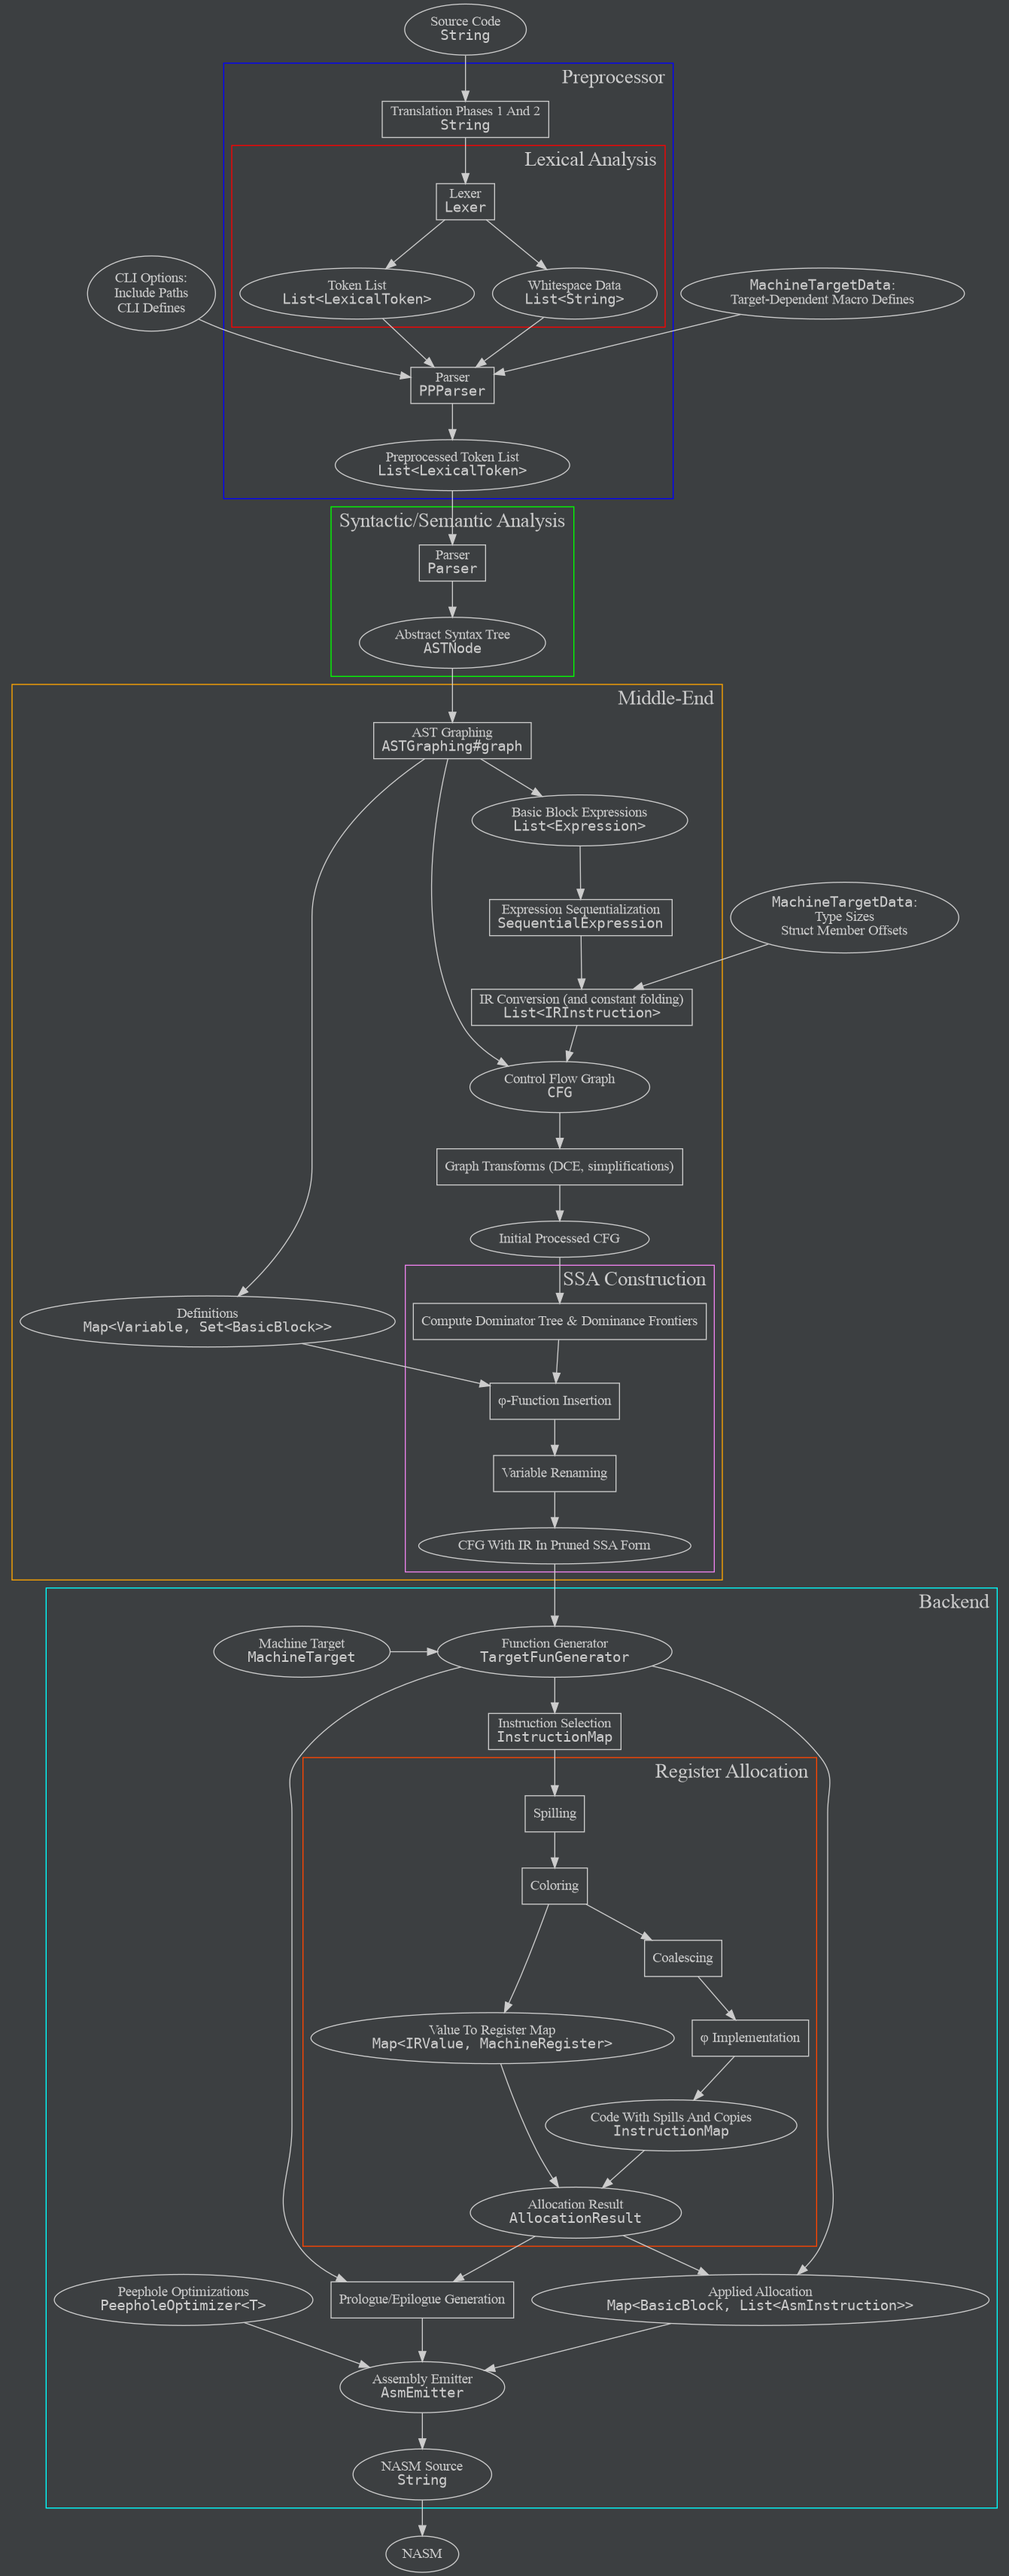
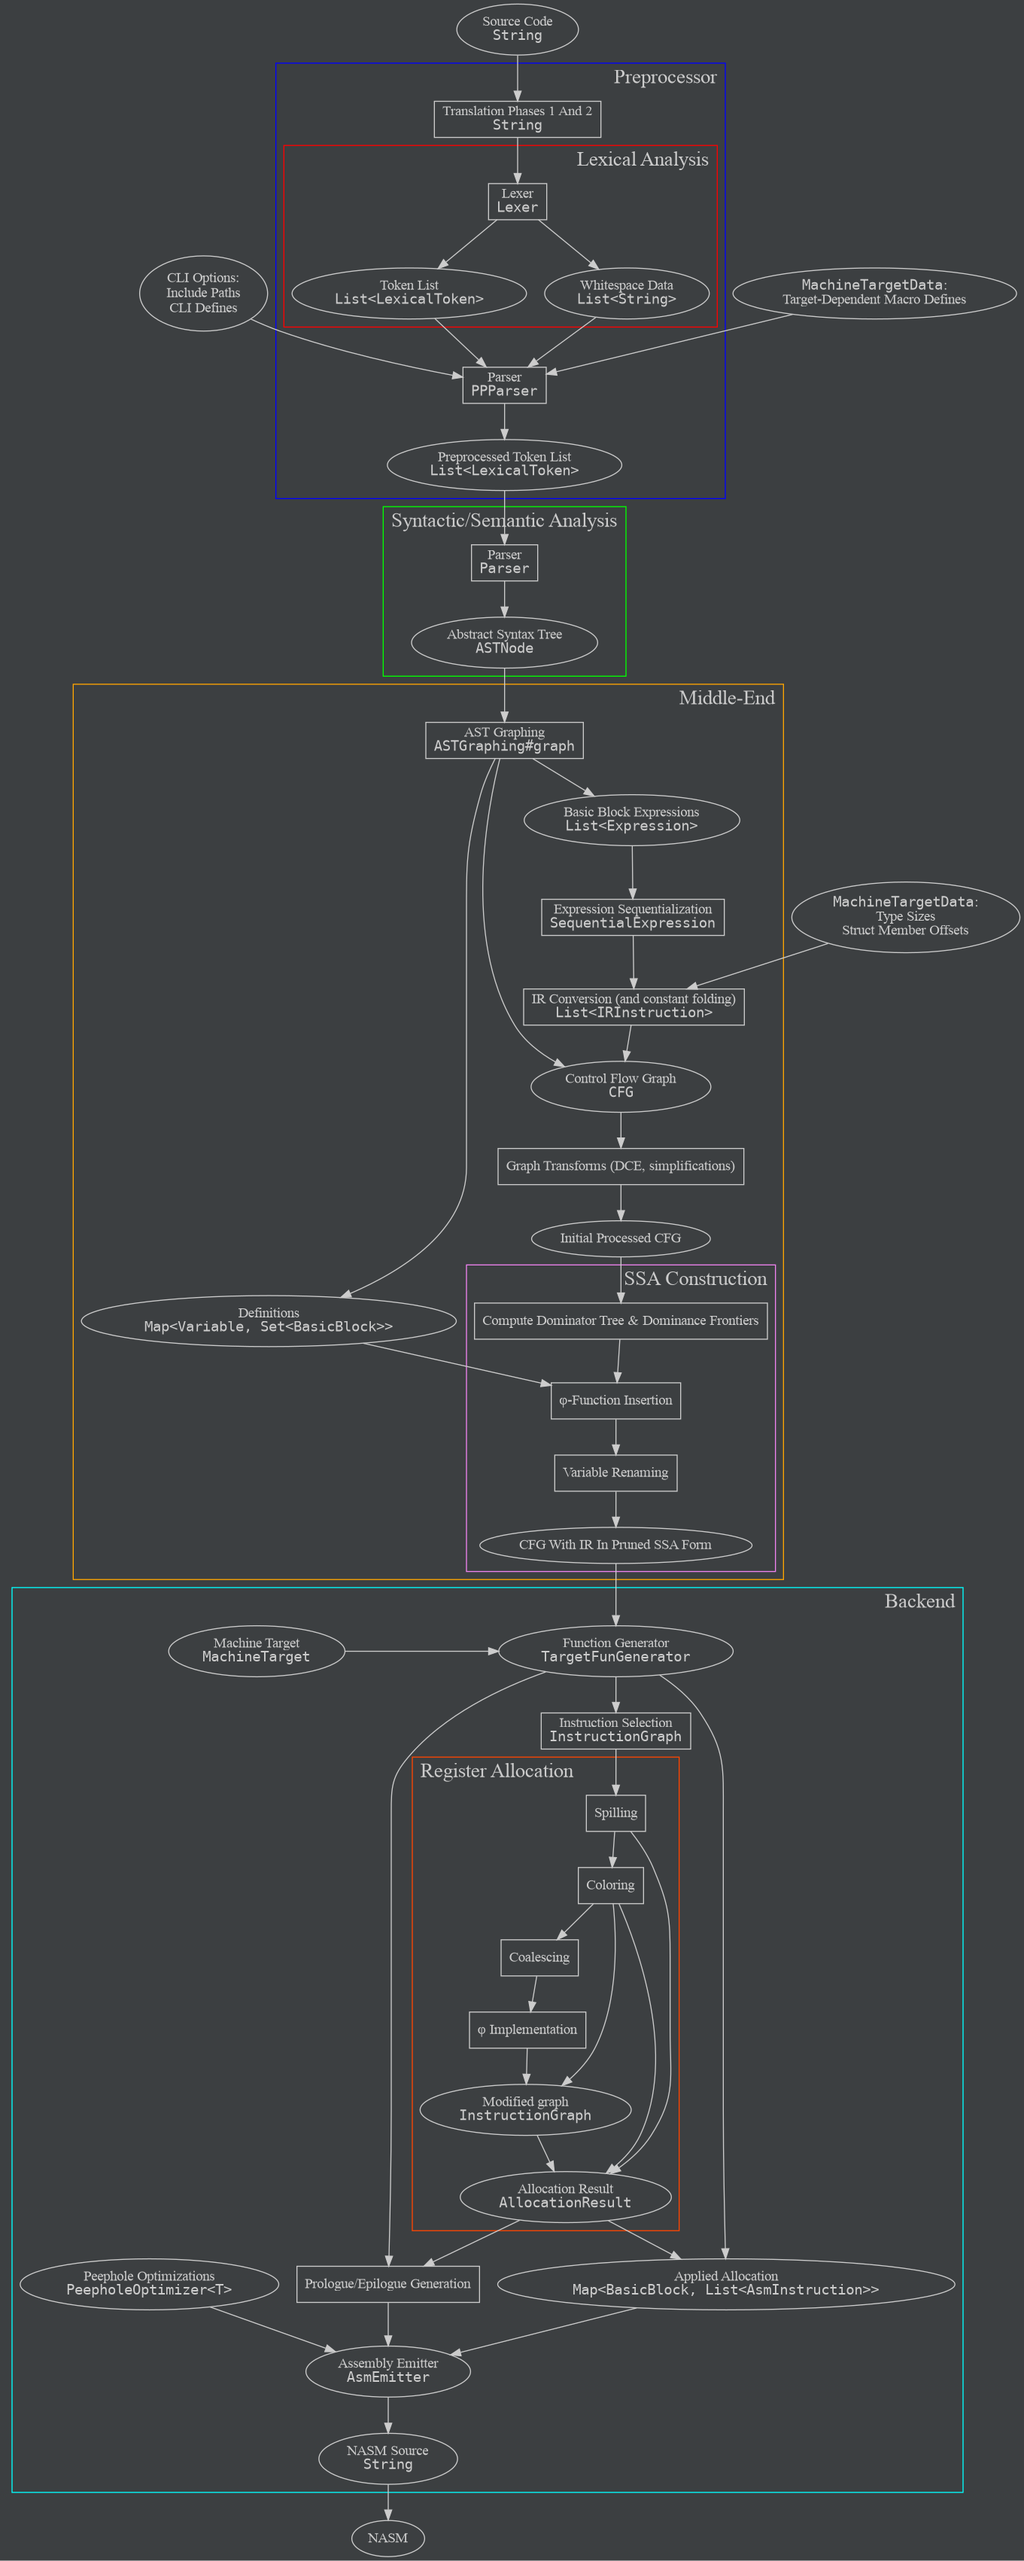
Update README

diff --git a/README.md b/README.md
@@ -10,7 +10,7 @@ Run `./gradlew distZip` for the compiler's CLI (will be created in
 
 JUnit tests can be found in the `slak.test` package, in `src/test/kotlin`.
 
-Also see what was chosen for some
+Also, see what was chosen for some
 [implementation defined/undefined behaviours][impl_defs].
 
 ## The CLI
@@ -85,7 +85,7 @@ This approach has several advantages:
    manual delegation helps prevent accidental coupling.
 4. The delegate syntax is clean: there is usually no need to write
    `component.doThing()`, rather `doThing()` can be called directly. This is
-   most obvious for parser components using `ITokenHandler`, since they have
+   most obvious in parser components using `ITokenHandler`, since they have
    lots (hundreds) of calls to functions like `current`, `eat`, `isEaten` or
    `tokenContext`. Without delegation, they'd end up polluting the source with
    `tokenHandler.current()` everywhere, which is not great for readability.
@@ -96,7 +96,7 @@ A compiler has to deal with two classes of "errors"; those that come from the
 code being compiled ("diagnostics"), and those that signal issues in the
 compiler itself.
 
-All of the relevant code can be found in the [Diagnostics.kt][diags] file.
+All the relevant code can be found in the [Diagnostics.kt][diags] file.
 
 ###### Diagnostics
 
@@ -112,7 +112,7 @@ int main() {int x; (x + 2) = 5;}
 </pre>
 
 We generate `Diagnostic` instances using a simple DSL, but the error messages,
-the source extracts and the caret/tilde markers are created lazily, internally.
+the source extracts, and the caret/tilde markers are created lazily, internally.
 They are only computed when (or if) the diagnostic gets printed. This is useful,
 because it makes creating a `Diagnostic` instance relatively cheap. As a result,
 we can create diagnostics even if they might be discarded later, with little
@@ -251,7 +251,7 @@ This interface is used both in the parser, and in the preprocessor.
 
 ### Nested Declarator Parsing
 
-Parsing declarators gets very complicated very fast when nested declarators come
+Parsing declarators gets very complicated, very fast when nested declarators come
 into play. A typical declaration with nested declarators looks like:
 ```
 int * (*f(int x))(double y)
@@ -327,8 +327,8 @@ Control flow is resolved by converting the AST to a graph (see
 [ASTGraphing.kt][ast_graphing]), where each node (a so-called [BasicBlock][bb])
 represents a _linear_ piece of code, with no jumps, conditional or otherwise.
 Basically, all `ASTNode` subclasses are removed by the conversion to a graph,
-except for `Expression` subclasses (with certain exceptions that are also
-removed, namely `TernaryConditional`).
+except for `Expression` subclasses (with certain exceptions:
+`TernaryConditional`, in particular, is also removed).
 
 Those linear pieces of code are represented as a `List<Expression>`, and are
 transformed to the simple IR (`List<IRInstruction>`) while creating the graph
@@ -429,7 +429,7 @@ Once this work is completed, the code is now in SSA form.
 
 If the `ControlFlowVariableRenames` marker in [log4j2.xml][log4j2_xml] is
 enabled (it is denied logging by default), the variable renamer will print a
-table outlining some of the steps done during renaming for the variable `x`:
+table outlining the steps done during renaming for the variable `x`:
 ```text
 [TRACE] in ControlFlow: BB| x mention   | x.reachingDef
 [TRACE] in ControlFlow: -------------------------------
@@ -465,14 +465,34 @@ table outlining some of the steps done during renaming for the variable `x`:
 Certain things depend on the target ISA and/or the machine (the size of an
 `int`, for example). `MachineTargetData` instances contain all this information.
 
-`MachineTargetData` also generates various macros used in stdlib headers (such
-as `__PTRDIFF_T_TYPE` for `stddef.h`).
+`MachineTargetData` is also responsible for generating various macros used in
+stdlib headers (such as `__PTRDIFF_T_TYPE` for `stddef.h`).
 
 This class is technically part of the backend, but certain features handled in
 the front-end (eg `sizeof`) also depend on this target-specific data.
 
 For now, only x64 Linux is supported, but the infrastructure for x86 and other
 platforms exists.
+
+###### The `MachineInstruction` class
+
+This class represents an instruction along with its operands (`IRValue`s), so
+it is still target-independent. All the target-dependent aspects of the
+instruction are contained within the `InstructionTemplate` stored by the MI (see
+below for more).
+
+###### The Instruction Graph
+
+A [CFG][cfg] is sufficient to represent the control flow, but in order to more
+cleanly separate responsibilities, and to avoid turning the CFG class into a god
+object, a new graph representation is introduced, [InstructionGraph][igraph].
+
+This class is the CFG's analogue in the backend (and is actually created by
+copying the structure of the existing CFG). Similarly, `InstrBlock` is the
+analogue for `BasicBlock`.
+
+`InstrBlock` implements the `MutableList<MachineInstruction>` interface, for
+easily interacting with the instructions in a block.
 
 ###### The Code Generation Interfaces
 
@@ -482,13 +502,14 @@ manner. The code can be found in [MachineTarget.kt][machine_target].
 1. `MachineTarget`: This interface describes a particular compilation target. It
    contains the relevant `MachineTargetData` instance, and data about the
    register file of the target ISA.
+2. `TargetOptions`: Represents the set of CLI options passed to a target.
 2. `MachineRegisterClass`: Describes a type of register in the ISA. For example,
    x64 distinguishes between general purpose integer registers (`rax`, `rbp`,
    etc) and SSE/AVX registers (`xmm4`, `ymm1`, etc).
 3. `MachineRegister`: A description of a particular register in the ISA. Stores
    size, class, aliases.
 4. `TargetFunGenerator`: Implementors of this interface are code generators for
-   a single function CFG, for a particular `MachineTarget`. An instance of this
+   a single function graph, for a particular `MachineTarget`. An instance of this
    class holds all the state required for all the code generation stages before
    emission.
 5. `AsmEmitter`: Takes the result of all the function generators in a
@@ -500,20 +521,18 @@ manner. The code can be found in [MachineTarget.kt][machine_target].
    example: `mov r/m64, r64` or `add r32, imm32`.
 8. `AsmInstruction`: Final generated instruction, ready for emission.
 
-There is also the `MachineInstruction` class, which isn't an interface, but it
-represents an instruction (`InstructionTemplate`) along with its operands
-(`IRValue`s), so it is still target-independent.
-
 ###### Code Generation Process
 
 First, `TargetFunGenerator`s are created for all the functions in the
 translation unit. They are passed to an `AsmEmitter`, which returns the
 assembled code. The emitter is the one who triggers the actual generation
-process in each function's generator.
+process for each function's generator.
 
 Generation starts with instruction selection. Instruction selection creates
-`MachineInstruction`s for each block, and that is actually what it returns, a
-map of `BasicBlock` to `List<MachineInstruction>`.
+`MachineInstruction`s for each block, which are stored in the corresponding
+`InstrBlock`. The block has overridden methods for adding to the list: they
+also incrementally update the last uses map to account for the operands of the
+instruction.
 
 The next step is register allocation. Note that the code is still in SSA form: φ
 functions have not been removed, and variables are only assigned once per
@@ -521,7 +540,7 @@ version. The register allocator is based on [this paper][hack], and is
 target-independent (code in [RegisterAllocation.kt][regalloc]).
 
 The allocator is a graph coloring register allocator (GCRA), but it allocates
-directly over SSA. Other GCRAs run a SSA destruction algorithm before
+directly over SSA. Other GCRAs run an SSA destruction algorithm before
 allocation, but this actually introduces additional complexity: the coloring
 influences spilling, and coalescing influences both. A graph that is not
 k-colorable will have to be rebuilt after a spill. Both coloring and coalescing
@@ -537,9 +556,10 @@ and it is guaranteed that coloring will not fail, because we forcefully reduced
 the chromatic number via spilling. Coalescing runs after coloring, but before
 implementing φs.
 
-The register allocator produces an updated map of `MachineInstruction`s (with
-copies and/or spills inserted), the variables that have been spilled, and the
-actual allocation of registers to variables and temporaries.
+The register allocator alters the blocks of the `InstructionGraph`. Copies
+and/or spills are inserted, even new blocks might be inserted. The allocator also
+produces a list of spilled variables, as well its primary purpose, the actual
+allocation of registers to variables/temporaries.
 
 After this is done, the function generator creates the function
 prologue/epilogue, and the final `AsmInstruction`s by replacing `IRValue`s with
@@ -602,3 +622,4 @@ https://en.wikipedia.org/wiki/Operator-precedence_parser#Precedence_climbing_met
 [hack]: https://publikationen.bibliothek.kit.edu/1000007166/6532
 [machine_target]: ./src/main/kotlin/slak/ckompiler/backend/MachineTarget.kt
 [regalloc]: ./src/main/kotlin/slak/ckompiler/backend/RegisterAllocation.kt
+[igraph]: ./src/main/kotlin/slak/ckompiler/backend/InstructionGraph.kt
